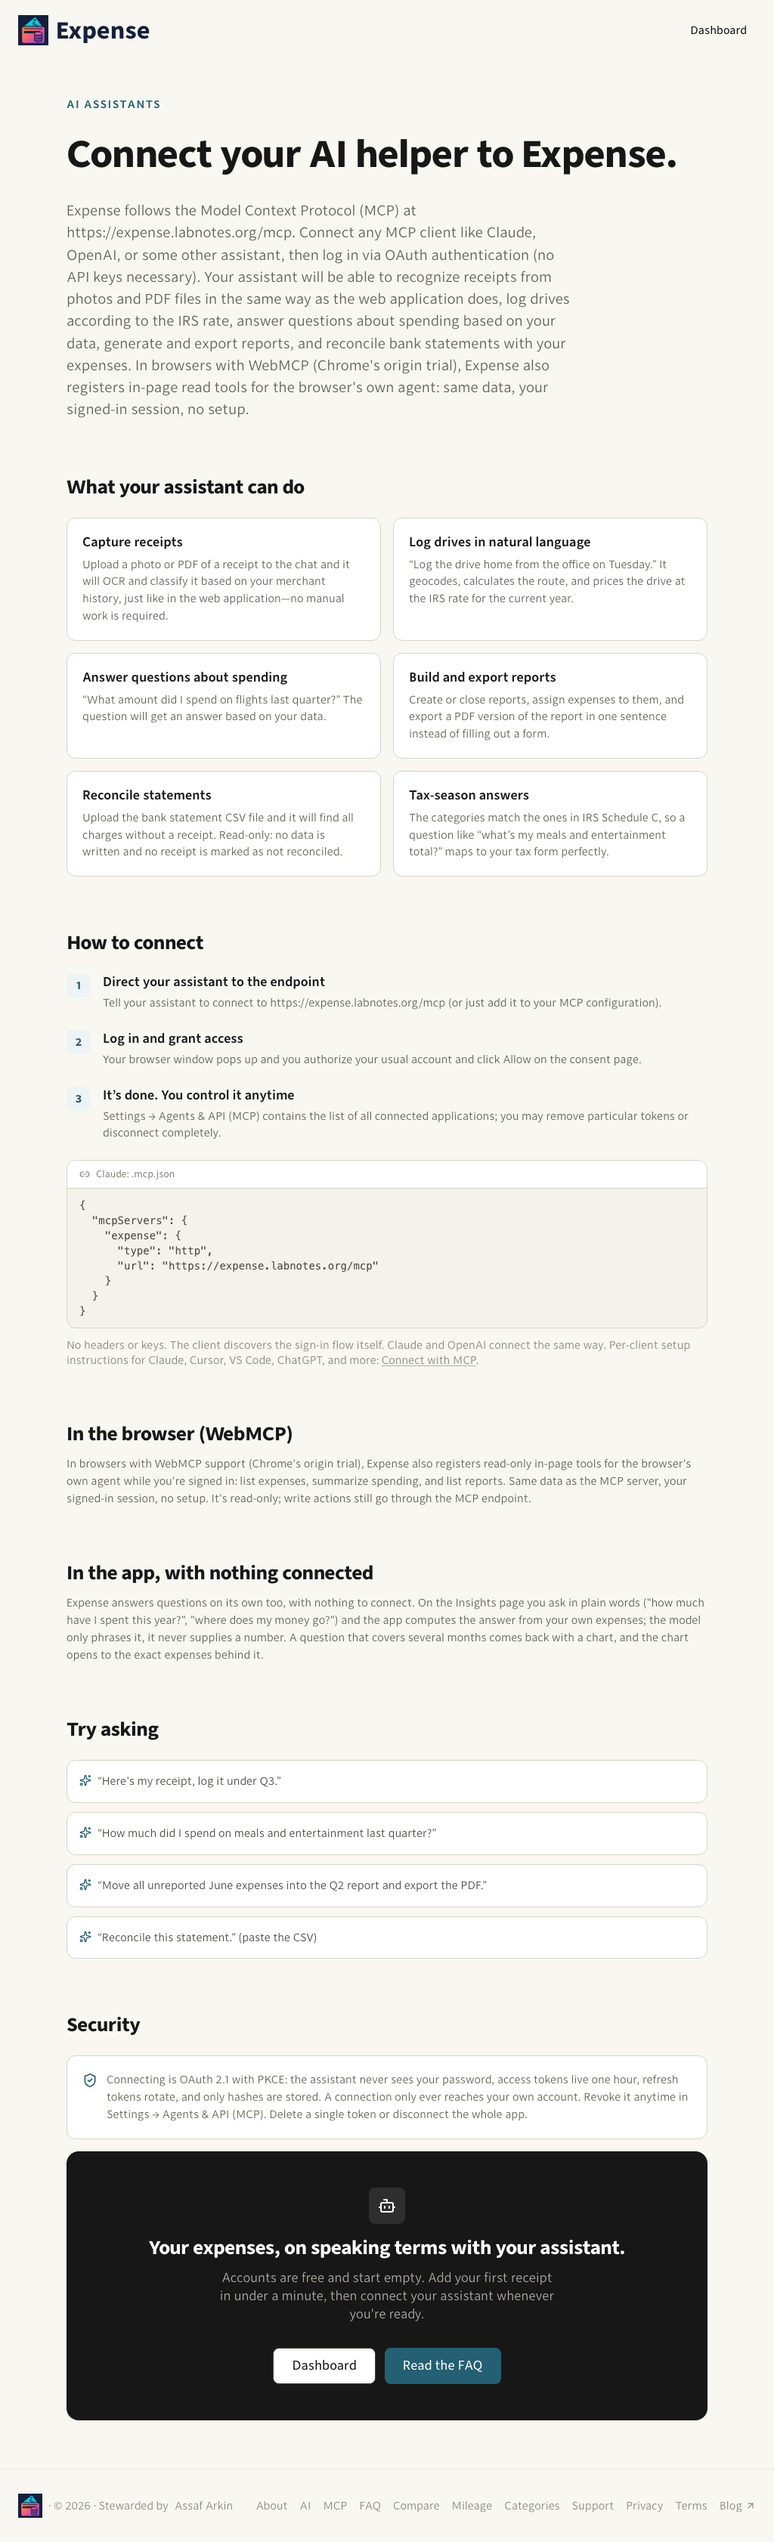
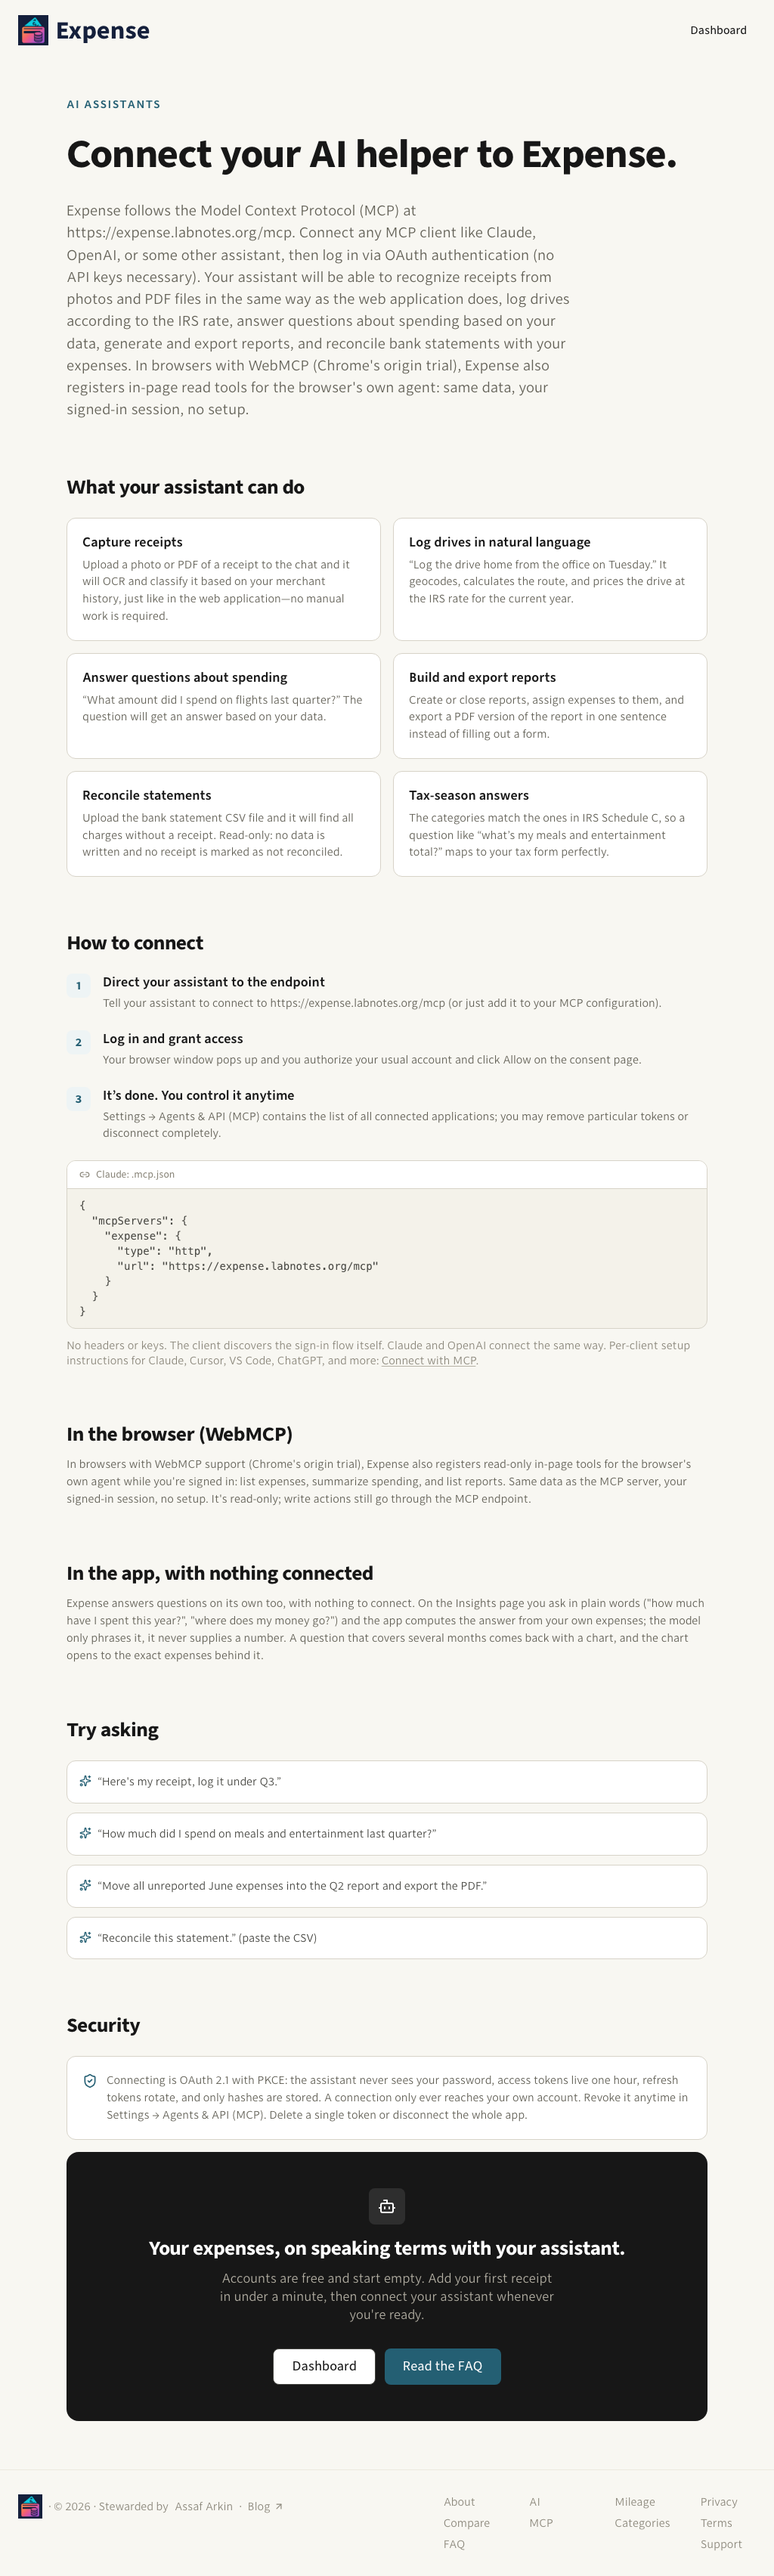
feat(marketing): restructured footer into link columns
- Grouped footer links into four columns covering the site, integrations, reference, and policy pages.
- Moved the external blog link next to the authorship credit instead of a nav column.
- Reordered the nav to a grid that stacks into two columns on small screens.
- Refreshed the public page screenshots to match the new footer.

diff --git a/app/components/SiteChrome.tsx b/app/components/SiteChrome.tsx
@@ -5,27 +5,44 @@ import { Button } from "~/components/ui/Button";
 import { Logo } from "~/components/Logo";
 import { useSignedIn } from "~/lib/use-signed-in";
 
-const FOOTER_NAV: SiteNavItem[] = [
-  { label: "About", to: "/about" },
-  { label: "AI", to: "/ai" },
-  { label: "MCP", to: "/connect" },
-  { label: "FAQ", to: "/faq" },
-  { label: "Compare", to: "/alternatives" },
-  { label: "Mileage", to: "/mileage-rates" },
-  { label: "Categories", to: "/schedule-c-categories" },
-  { label: "Support", to: "/support" },
-  { label: "Privacy", to: "/privacy" },
-  { label: "Terms", to: "/terms" },
-  { label: "Blog", to: "https://labnotes.org", external: true },
+/** The footer's link columns: what the site is, how to connect to it, the
+ * reference pages, and the policy pages. */
+const FOOTER_COLUMNS: SiteNavItem[][] = [
+  [
+    { label: "About", to: "/about" },
+    { label: "Compare", to: "/alternatives" },
+    { label: "FAQ", to: "/faq" },
+  ],
+  [
+    { label: "AI", to: "/ai" },
+    { label: "MCP", to: "/connect" },
+  ],
+  [
+    { label: "Mileage", to: "/mileage-rates" },
+    { label: "Categories", to: "/schedule-c-categories" },
+  ],
+  [
+    { label: "Privacy", to: "/privacy" },
+    { label: "Terms", to: "/terms" },
+    { label: "Support", to: "/support" },
+  ],
 ];
+
+/** The one off-site link, so it sits with the credit rather than in a column
+ * of site pages. */
+const FOOTER_BLOG: SiteNavItem = {
+  label: "Blog",
+  to: "https://labnotes.org",
+  external: true,
+};
 
 /**
  * Site header + footer for the public marketing/SEO pages (the landing page
  * and the /about, /faq, /alternatives SitePage). Both pages render the same
  * chrome: the wordmark header with a "Sign in" button (a "Dashboard" link to
  * the expenses list once the visitor has a session) and the brand +
- * copyright footer with the fixed FOOTER_NAV link list, so the chrome lives
- * here and every public page just mounts SiteHeader + SiteFooter.
+ * copyright footer with the link columns in FOOTER_COLUMNS, so the chrome
+ * lives here and every public page just mounts SiteHeader + SiteFooter.
  */
 
 /** One entry in a site header/footer nav. External links render as real
@@ -84,14 +101,24 @@ export function SiteHeader() {
 export function SiteFooter() {
   return (
     <footer className="border-t border-gray-100 dark:border-gray-700">
-      <div className="mx-auto flex max-w-6xl flex-col items-center justify-between gap-4 px-4 py-8 sm:flex-row sm:px-6">
-        <div className="flex items-center gap-2 text-sm text-gray-500 dark:text-gray-400">
+      <div className="mx-auto flex max-w-6xl flex-col items-center gap-8 px-4 py-8 sm:px-6 lg:flex-row lg:items-start lg:justify-between lg:gap-12">
+        <div className="flex flex-wrap items-center justify-center gap-x-2 gap-y-1 text-sm text-gray-500 dark:text-gray-400">
           <Logo icon /> · © {new Date().getFullYear()} · Stewarded by{" "}
-          <a href="https://labnotes.org">Assaf Arkin</a>
+          <a href="https://labnotes.org">Assaf Arkin</a> ·{" "}
+          <SiteNavLink item={FOOTER_BLOG} />
         </div>
-        <nav className="flex flex-wrap items-center justify-center gap-x-4 gap-y-2 text-sm">
-          {FOOTER_NAV.map((item) => (
-            <SiteNavLink key={item.label} item={item} />
+        <nav
+          aria-label="Site pages"
+          className="grid grid-cols-2 gap-x-10 gap-y-6 sm:grid-cols-4"
+        >
+          {FOOTER_COLUMNS.map((column, index) => (
+            <ul key={index} className="flex flex-col gap-2 text-sm">
+              {column.map((item) => (
+                <li key={item.label}>
+                  <SiteNavLink item={item} />
+                </li>
+              ))}
+            </ul>
           ))}
         </nav>
       </div>
